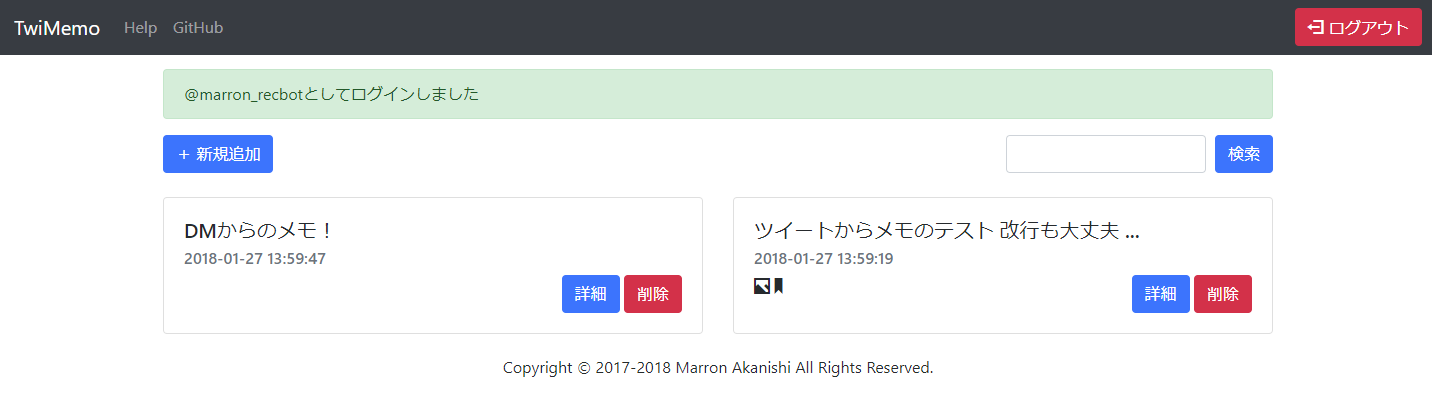
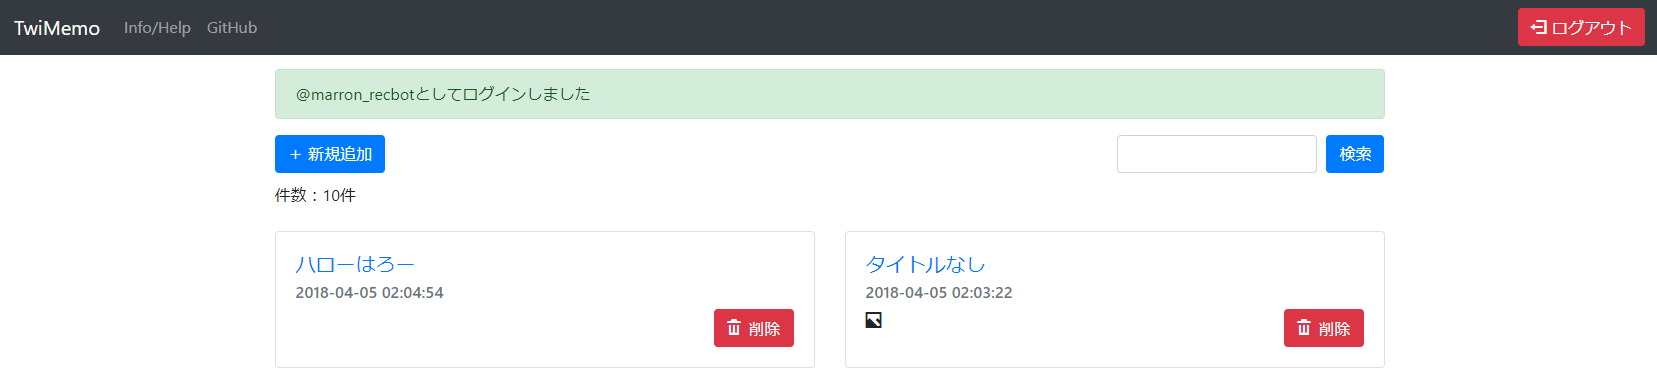
小さめのバージョンアップ

diff --git a/templates/help.html b/templates/help.html
@@ -6,9 +6,12 @@
     ベータ版の為、不具合が残っている可能性があります。
     <br> バグ等を発見した場合は
     <a href="https://twitter.com/marron_general/" target="_blank">@marron_general</a>に直接報告するか、GitHubのIssueに書いてください。
-    <br> 保存完了時のリプにメモ詳細のURLが付くようになりました。
-    <br> 編集画面、新規作成画面でページ移動時に警告を出すようにしました。
-    <br> 編集画面、新規作成画面でEnterキーによる送信を無効化しました。
+    <h4>新機能・バグ修正</h4>
+    メモの件数を表示するようにしました。検索時は検索結果件数となります。
+    <br> メモのタイトルも検索範囲に含まれるようになりました。
+    <br> 詳細ボタンを消し、タイトルを詳細へのリンクに変更しました。
+    <br> 短縮URLであるt.coを削除するようにしました。
+    <br> スマートフォン版で「検索へ」を押した際に入力ボックスに飛ぶようになりました。
   </p>
   <h1 id="-">ヘルプ</h1>
   <h2 id="-">TwiMemoとは？</h2>
@@ -90,9 +93,11 @@
           <img src="/static/images/list-sp.png" alt="リストページ(SP)">
         </div>
         <br>ここにはメモのリストが表示されます。また、新規追加ボタンがあります。
-        <br>メモごとにタイトル、日時、詳細ボタン、削除ボタンが存在します。また、アイコンが表示されることがあります。
+        <br>新規追加ボタンの下にはメモの件数が表示されます。
+        <br>メモごとにタイトル、日時、削除ボタンが存在します。また、アイコンが表示されることがあります。
         <br>タイトルには、メモの最初の20文字までが表示されます。
         <br>これをTwiMemoではタイトルとして登録しています。タイトルは編集ページで変更可能です。
+        <br>タイトルはリンクとなっており、詳細ページに飛びます。
         <br>タイトルの下には登録日時が表示されます。リストはこれの順番で並んでいます。
         <br>編集を行うと日時はその都度更新されていきます。
         <br>詳細ボタンを押すとメモの詳細を確認することが可能です。
@@ -100,13 +105,13 @@
         <br>また、メモにはアイコンが付いてるものが出来ます。アイコンの意味は以下のとおりです。
         <br><span class="oi oi-image"></span>→画像が添付されていることを示しています。
         <br><span class="oi oi-bookmark"></span>→リンクが添付されていることを示しています。
-        <br>検索機能は本文での検索が出来ます。ただし、1単語でしか検索できません。
+        <br>検索機能はタイトル・本文から検索が出来ます。ただし、1単語でしか検索できません。
         <br>検索内容を消去して、全表示にするには何も入力せずに検索を行ってください。
       </p>
     </li>
     <li>
       <p>詳細ページ
-        <br>リストページで詳細ボタンを押すとメモごとの詳細ページに飛びます。
+        <br>リストページでタイトルを押すとメモごとの詳細ページに飛びます。
         <br>
         <div class="d-none d-md-block border">
           <img src="/static/images/detail-pc.png" alt="詳細ページ(PC)">

diff --git a/templates/list.html b/templates/list.html
@@ -36,10 +36,8 @@
               {% if memo.url != "" %}
               <span class="oi oi-bookmark"></span>
               {% endif %}
-              <span class="oi oi-bell"></span>
             </div>
             <div class="col-auto">
-              <button class="btn btn-info" data-toggle="modal" data-target="#remind-setting" data-memoid="{{memo.id}}"><span class="oi oi-bell"></span></button>
               <button class="btn btn-danger" onclick="delmemo('{{memo.id}}')"><span class="oi oi-trash"> 削除</span></button>
             </div>
           </div>
@@ -47,32 +45,6 @@
       </div>
     </div>
     {% endfor %}
-  </div>
-  <div class="modal fade" id="remind-setting" tabindex="-1" role="dialog" aria-labelledby="ModalLabel" aria-hidden="true">
-    <div class="modal-dialog modal-dialog-centered modal-sm" role="document">
-      <div class="modal-content">
-        <div class="modal-header">
-          <h5 class="modal-title" id="ModalLabel">リマインダー設定</h5>
-          <button type="button" class="close" data-dismiss="modal" aria-label="Close">
-            <span aria-hidden="true">&times;</span>
-          </button>
-        </div>
-        <div class="modal-body">
-          <form>
-            <input type="hidden" id="date" name="date">
-            <div class="form-group" id="datepicker">
-              <label class="control-label">指定された日時にリプを送信します。</label>
-              <div class="in-line"></div>
-            </div>
-            <input type="hidden" id="memoid" name="memoid">
-            <div style="text-align: right">
-              <button type="button" class="btn btn-secondary" data-dismiss="modal">キャンセル</button>
-              <button type="button" class="btn btn-primary">登録</button>
-            </div>
-          </form>
-        </div>
-      </div>
-    </div>
   </div>
   <form action="/list" method="GET" class="d-sm-none">
     <input type="text" class="form-control margin" name="search" id="sm_search">

diff --git a/streaming.py b/streaming.py
@@ -6,13 +6,11 @@ import tweepy as tp
 import threading
 import db_utils as db
 
-# スタート文字列
-hashtag = "memo"
-# パターン
+# グローバル変数はスレッド動作時変更出来ないので注意
+# パターンマッチ
 status_url = re.compile(r"https://twitter.com/\w*/status/\d*")
 message_url = re.compile(r"https://twitter.com/messages/media/\d*")
-# ドメイン(localhostの場合リンクにならない)
-base_url = ""
+link_url = re.compile(r"https?://t.co/\S*")
 
 def get_oauth(setting):
     """設定ファイルから各種キーを取得し、OAUTH認証を行う"""
@@ -34,24 +32,48 @@ class StreamListener(tp.StreamListener):
     def on_timeout(self):
         return True
     
-    def make_memo(self, status):
+    def make_memo(self, status, isDM=False):
         memo = {}
-        memo["contents"] = status.text.replace("#"+self.hashtag,"").strip()
+        # 内容
+        if isDM:
+            memo["contents"] = status["text"]
+        else:
+            memo["contents"] = status.text.replace("#"+self.hashtag,"").strip()
+        memo["contents"] = link_url.sub("", memo["contents"])
+        # タイトル
         memo["title"] = memo["contents"]
         if len(memo["title"]) > 20:
             memo["title"] = memo["title"][:20]
+        elif len(memo["title"]) == 0:
+            memo["contents"] = "内容なし"
+            memo["title"] = "タイトルなし"
+        # 画像
         media_url = []
-        if hasattr(status, "extended_entities"):
-            if 'media' in status.extended_entities:
-                status_media = status.extended_entities
-                for image in status_media['media']:
+        if isDM:
+            if "entities" in status and 'media' in status["entities"]:
+                status_media = status["entities"]["media"]
+                for image in status_media:
                     media_url.append(image['media_url'])
+        else:
+            if hasattr(status, "extended_entities"):
+                if 'media' in status.extended_entities:
+                    status_media = status.extended_entities
+                    for image in status_media['media']:
+                        media_url.append(image['media_url'])
         memo["media"] = ','.join(media_url)
+        # URL
         urls = []
-        if hasattr(status, "entities"):
-            if 'urls' in status.entities:
-                for url in status.entities["urls"]:
-                    urls.append(url['expanded_url'])
+        if isDM:
+            if "entities" in status and 'urls' in status["entities"]:
+                status_urls = status["entities"]["urls"]
+                for url in status_urls:
+                    if not message_url.match(url['expanded_url']):
+                        urls.append(url['expanded_url'])
+        else:
+            if hasattr(status, "entities"):
+                if 'urls' in status.entities:
+                    for url in status.entities["urls"]:
+                        urls.append(url['expanded_url'])
         memo["url"] = '|'.join(urls)
         return memo
 
@@ -95,37 +117,22 @@ class StreamListener(tp.StreamListener):
         # データ書き込み
         memo = {}
         memo["id"] = status["id"]
+        memo["time"] = datetime.now().strftime("%Y-%m-%d %H:%M:%S")
         # 引用ツイートチェック
         try:
             url = status["entities"]["urls"][0]["expanded_url"]
             if status_url.match(url):
+                memo["source"] = url
                 status_id = url.split("/")[-1]
                 status = self.api.get_status(status_id)
                 content = self.make_memo(status)
                 memo.update(content)
-                memo["source"] = url
             else:
                 raise ValueError
         except:
-            memo["contents"] = status["text"]
-            memo["title"] = memo["contents"]
-            if len(memo["title"]) > 20:
-                memo["title"] = memo["title"][:20]
-            media_url = []
-            if "entities" in status and 'media' in status["entities"]:
-                status_media = status["entities"]["media"]
-                for image in status_media:
-                    media_url.append(image['media_url'])
-            memo["media"] = ",".join(media_url)
-            urls = []
-            if "entities" in status and 'urls' in status["entities"]:
-                status_urls = status["entities"]["urls"]
-                for url in status_urls:
-                    if not message_url.match(url['expanded_url']):
-                        urls.append(url['expanded_url'])
-            memo["url"] = "|".join(urls)
             memo["source"] = "DirectMessage"
-        memo["time"] = datetime.now().strftime("%Y-%m-%d %H:%M:%S")
+            content = self.make_memo(status, True)
+            memo.update(content)
         db.write_memo(dbpath, memo)
         # リプを送信
         self.api.send_direct_message(sender, text="メモに登録しました[{}] {}".format(memo["time"], self.base_url+str(memo["id"])))
@@ -138,10 +145,8 @@ class StreamListener(tp.StreamListener):
 
 if __name__ == '__main__':
     setting = json.load(open("setting.json"))
-    hashtag = setting["HashTag"]
-    base_url = setting['twitter_API']['Callback_URL'].replace("authed","detail/")
     auth = get_oauth(setting)
-    stream = tp.Stream(auth, StreamListener(tp.API(auth)), secure=True)
+    stream = tp.Stream(auth, StreamListener(tp.API(auth), setting), secure=True)
     print("start")
     stream.userstream()
 

diff --git a/db_utils.py b/db_utils.py
@@ -106,7 +106,8 @@ def search_list(path, search):
         raise ValueError
     conn.row_factory = sql.Row
     cur = conn.cursor()
-    cur.execute("select * from list where contents like ? escape '$' order by time desc",("%"+search+"%",))
+    cur.execute("""select * from list where title like :text or contents like :text 
+                escape '$' order by time desc""",{"text":"%"+search+"%"})
     for row in cur:
         memolist.append({
             "id":row["id"],
